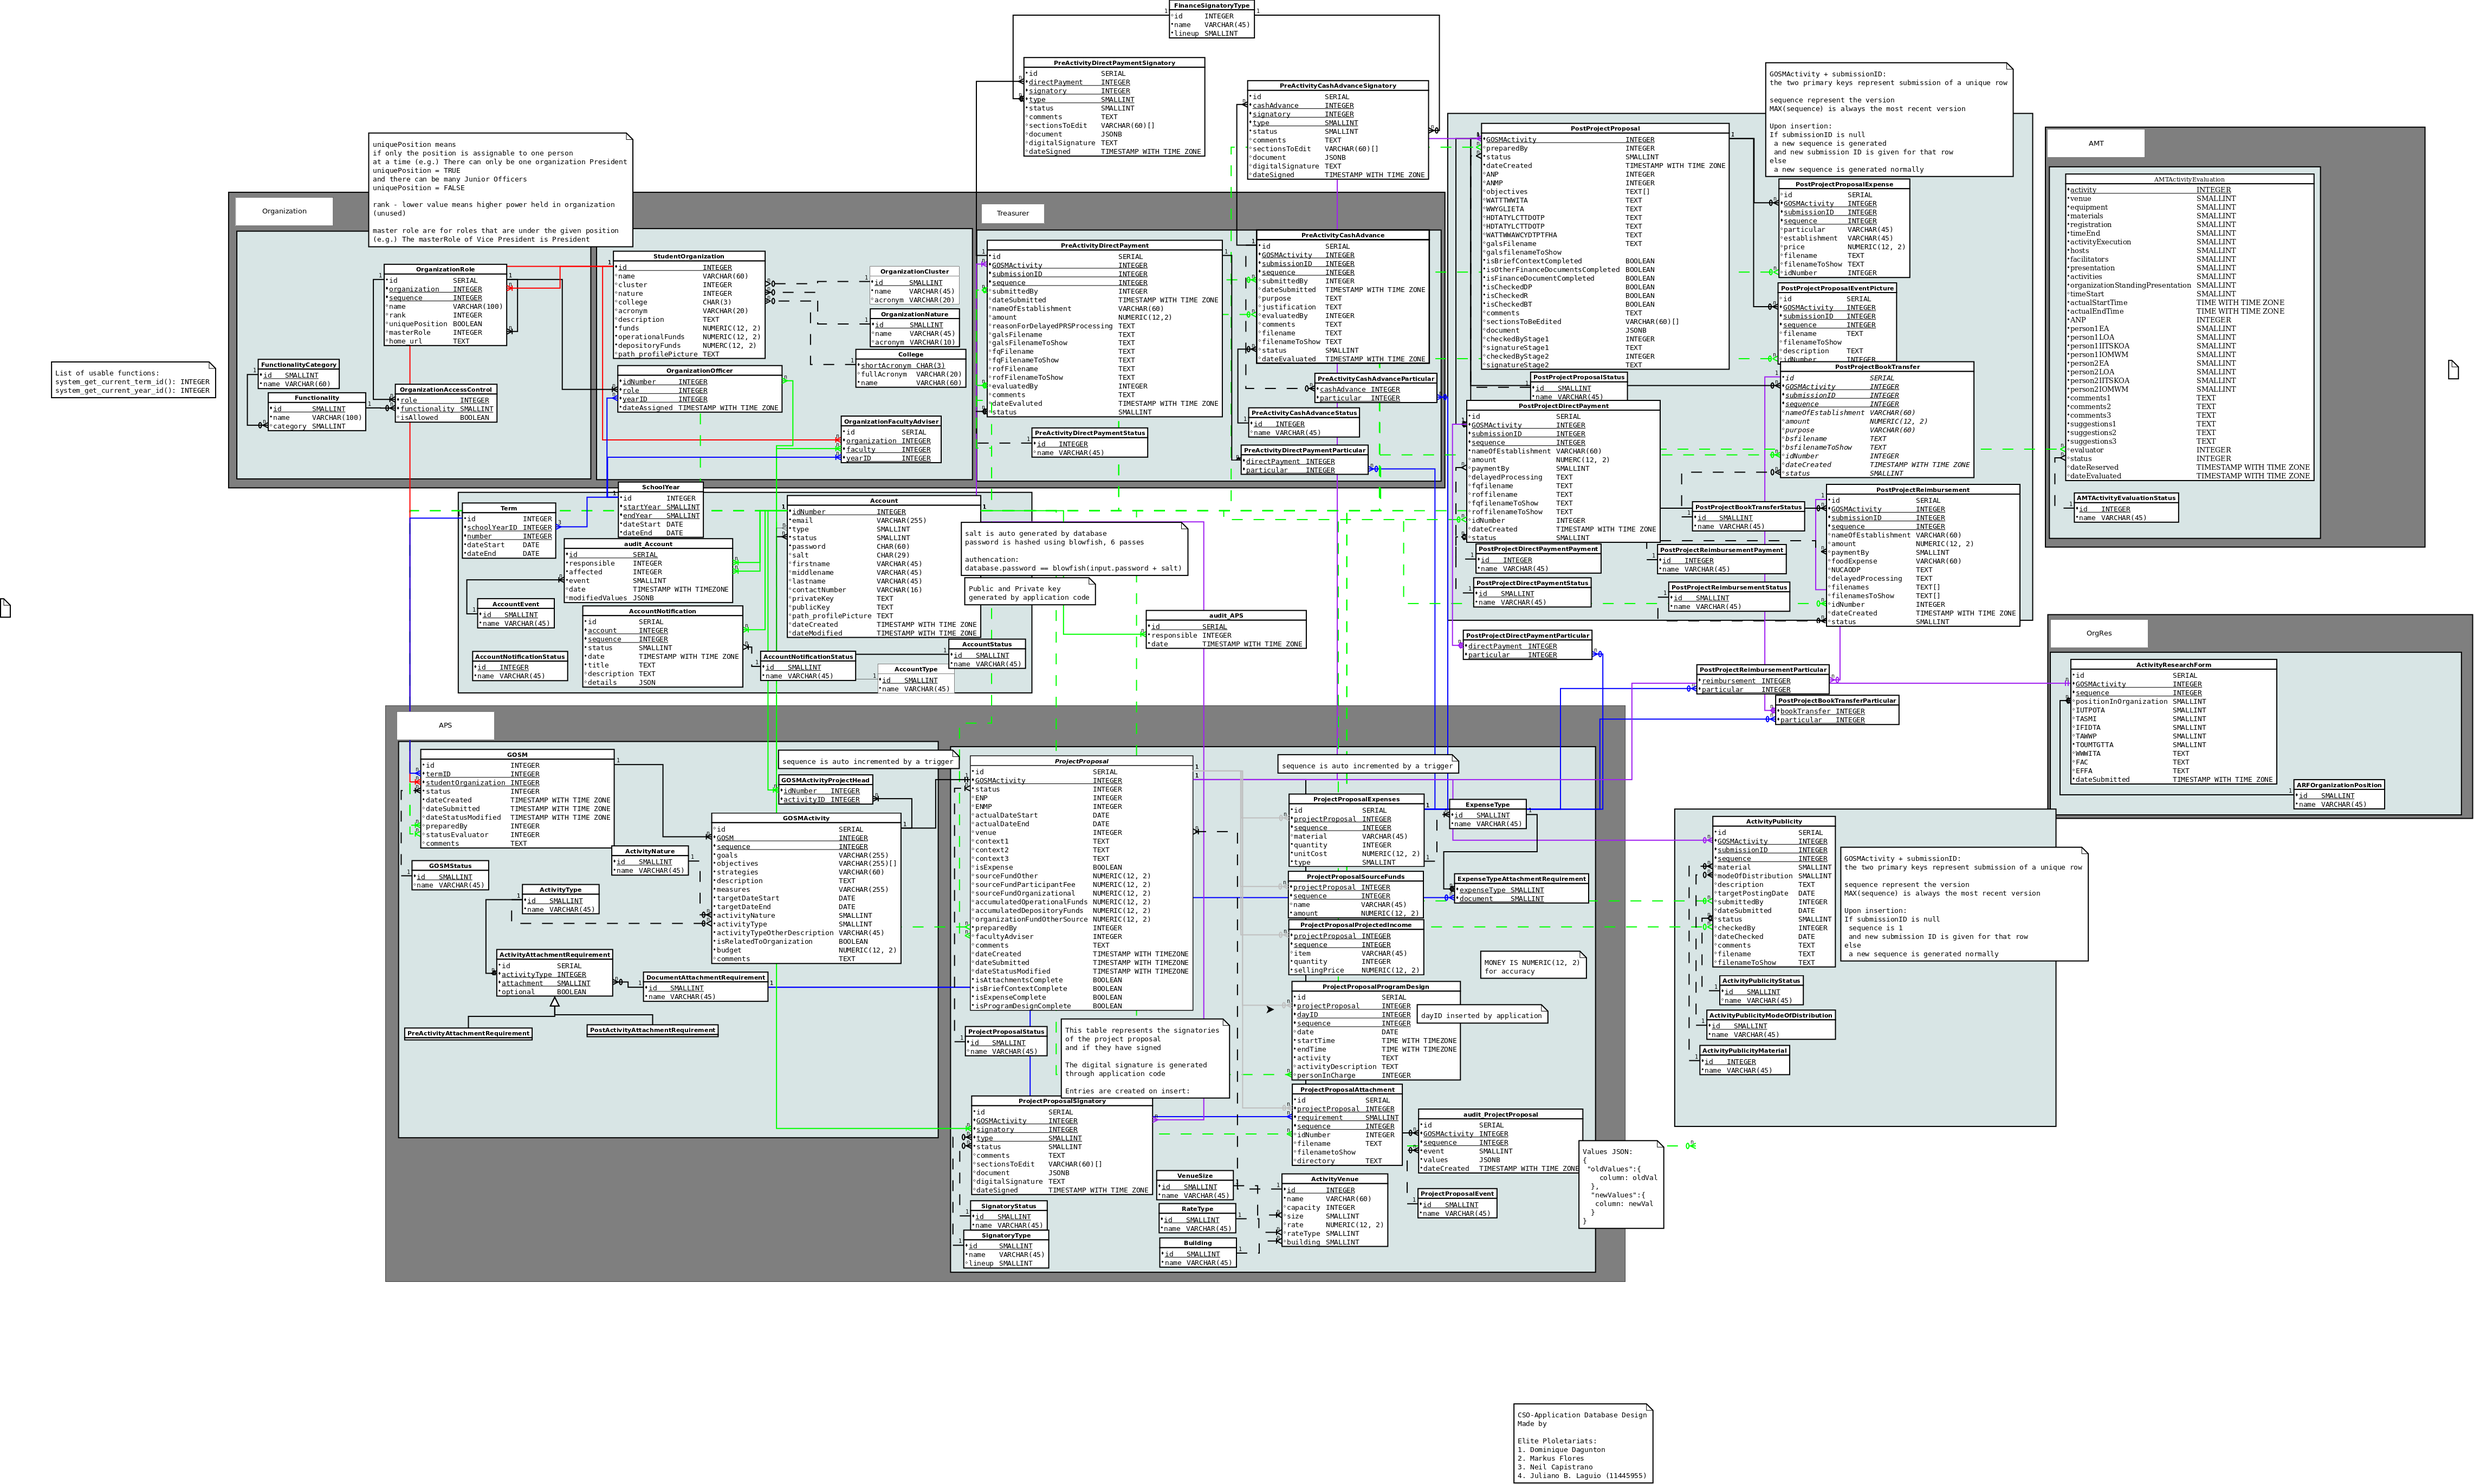
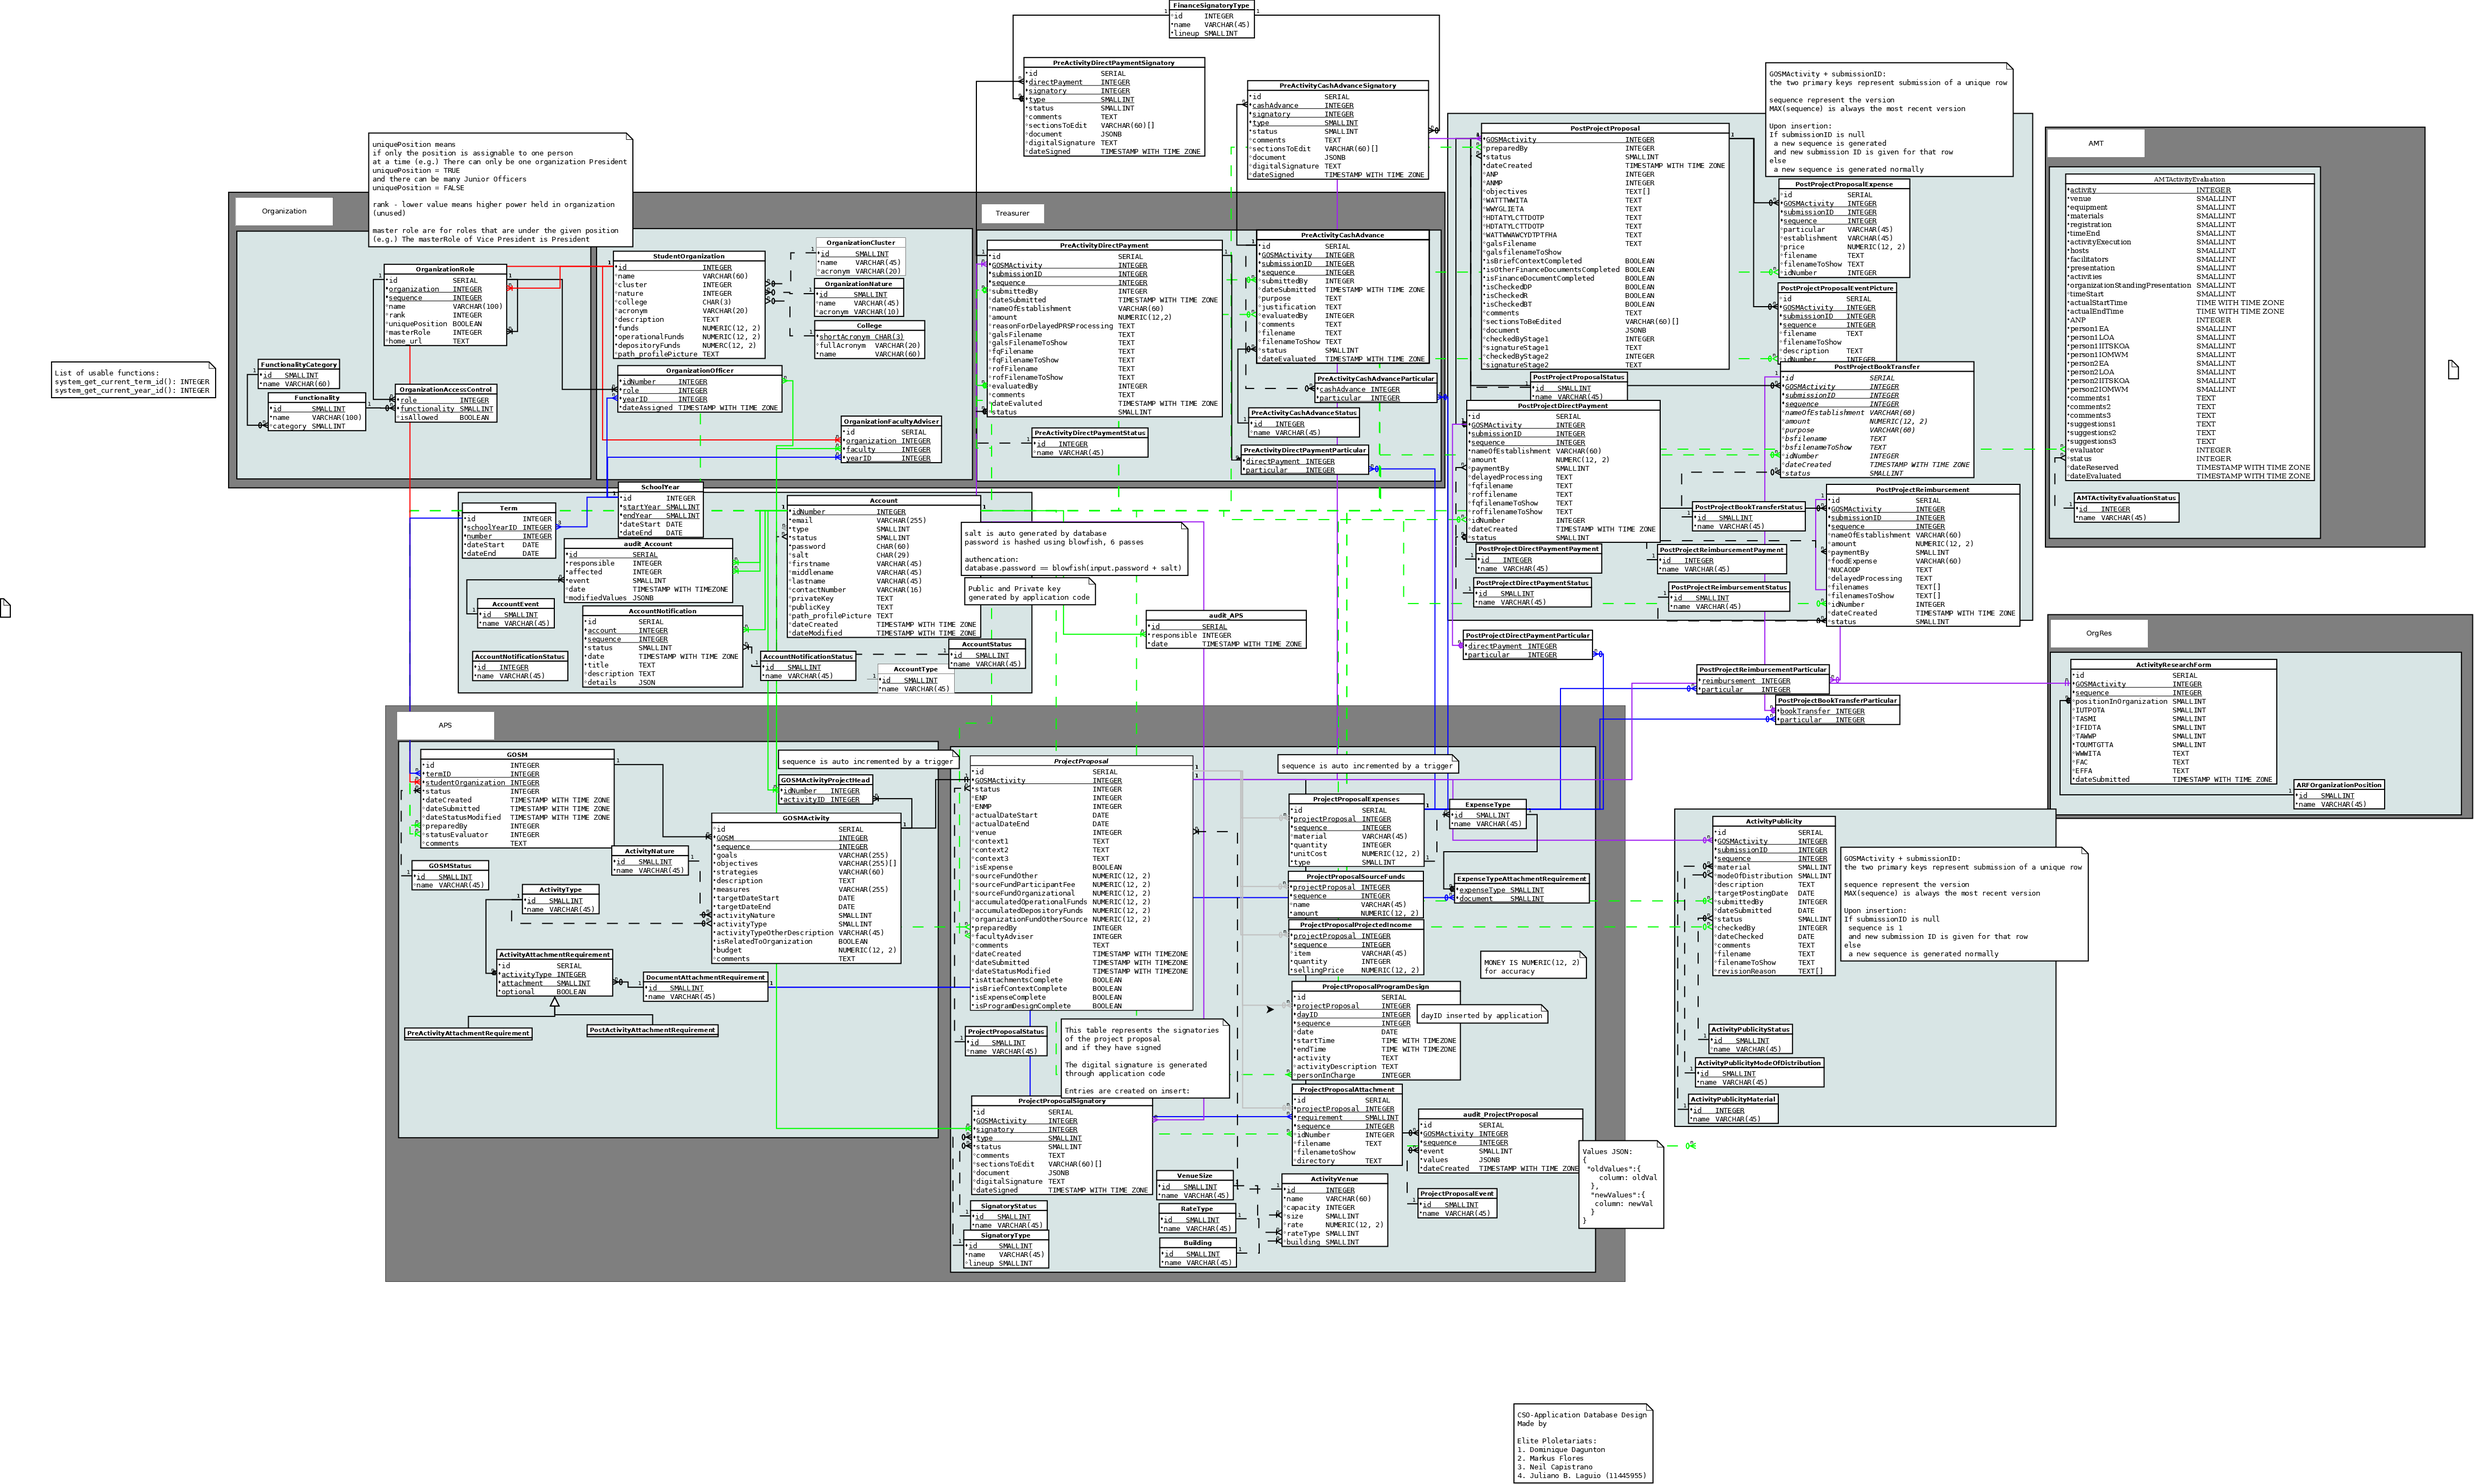
Database & backend additions a fixes
Added more logic to student navbar
Edited database
    Removed RevisionReason table for publicity
    Made revisionReason to TEXT[] instead

diff --git a/app/pre_middlewares/Student_Navbar_middleware.js b/app/pre_middlewares/Student_Navbar_middleware.js
@@ -4,9 +4,10 @@ module.exports = function(configuration, application, modules, database, queryFi
     const Promise = modules.Promise;
 
     const logger = modules.logger;
-    const log_options = {
-        from: 'Student-Navbar-middleware'
-    };
+    const log_options = Object.create(null);
+    log_options.from = 'Student-Navbar-middleware';
+
+    const accountModel = models.Account_model;
 
     /**
      * const StudentAccountAccessControlMiddleware = {
@@ -19,7 +20,14 @@ module.exports = function(configuration, application, modules, database, queryFi
     StudentSidebarAttacher.name = 'Admin sidebar attacher';
     StudentSidebarAttacher.priority = configuration.load_priority.LOW;
     StudentSidebarAttacher.action = (req, res, next) => {
-    logger.debug(`Attaching student navbar data` ,log_options);
+        if(req.method !== 'GET' || !req.session.user || req.session.user.type !== 1)
+            return next();
+
+        logger.debug(`Attaching student navbar data`, log_options);
+        
+        accountModel.getStudentOrganizations(req.session.user.idNumber).then(organizations => {
+            logger.debug(`Organizations: ${JSON.stringify(organizations)}`, log_options);
+        });
 
        return next();
     };

diff --git a/app/models/Account_model.js b/app/models/Account_model.js
@@ -327,7 +327,8 @@ module.exports = function(configuration, modules, database, queryFiles) {
 
         const param = Object.create(null);
         param.idNumber = idNumber;
-
+        
+        logger.debug(`Executing query: ${query_get_student_studentOrganizations}`, log_options);
         return connection.any(query_get_student_studentOrganizations, param);
     };
 
